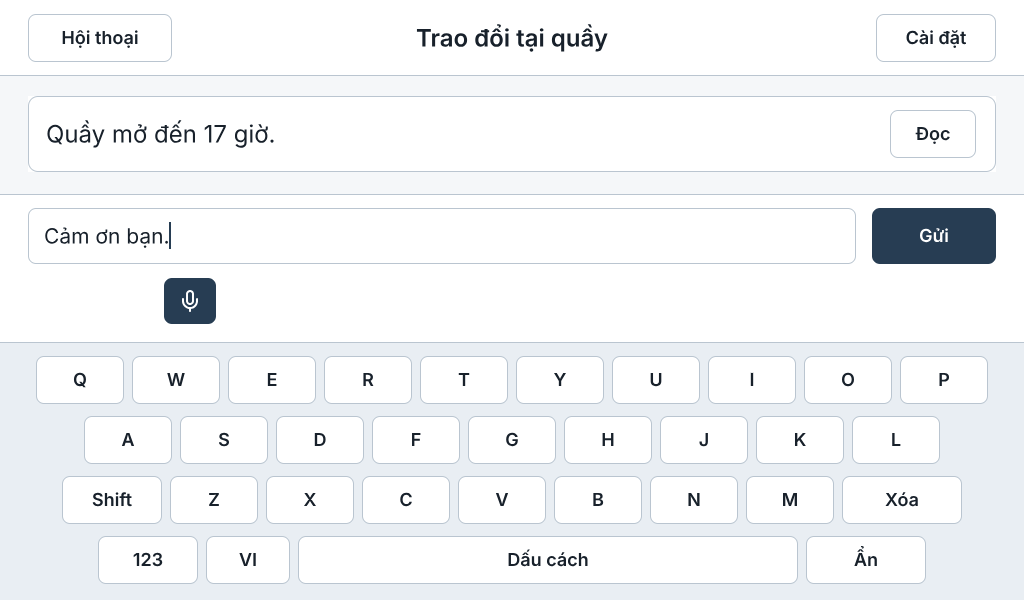
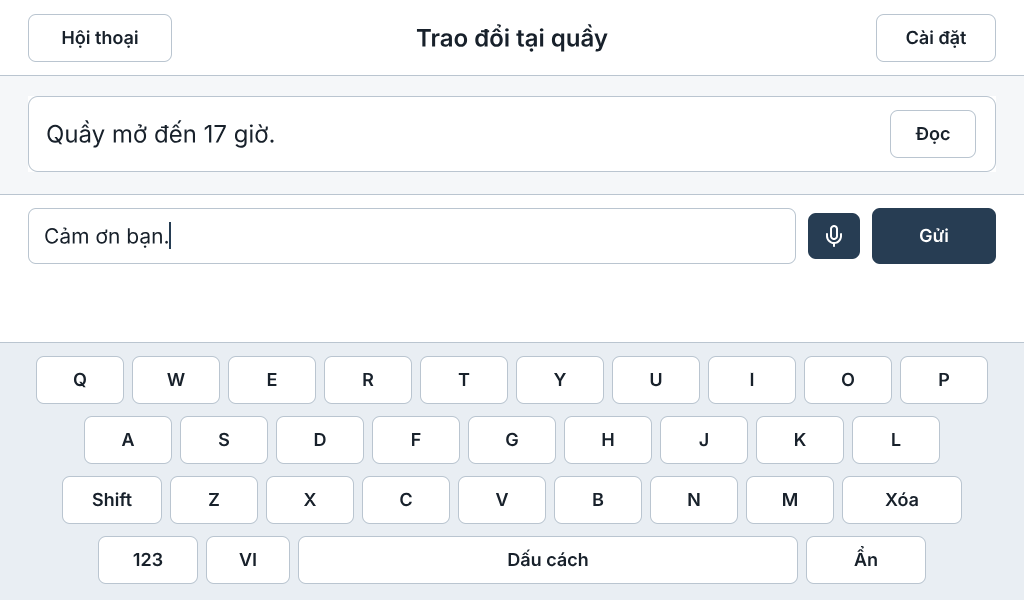
design: place microphone states next to Send

Changed region(s): [[0.7812, 0.33, 0.8438, 0.45], [0.1562, 0.45, 0.2188, 0.54]]

diff --git a/STT_PRODUCT_UI_UX.md b/STT_PRODUCT_UI_UX.md
@@ -53,7 +53,7 @@ Phương án tệp thu tạm của V1 và cách phát triển dần sang V2, V3 
 | :--- | :--- | :--- |
 | Điều hướng | Hội thoại, Lịch sử và Settings. | Cách mở và thu gọn Lịch sử trên màn nhỏ. |
 | Vùng hội thoại | Hiển thị các tin đã gửi. Sau khi gửi thành công, vùng hội thoại tự cuộn đến tin vừa gửi. Tin này dùng cùng kiểu và cỡ chữ với các tin khác trong hội thoại. | Kiểm tra cỡ chữ chung trên màn 7 inch, bố cục từng tin và việc có cần nhãn nguồn nhập. |
-| Vùng soạn | Một vùng soạn chung có mic và **Gửi**. Khi chạm vào vùng soạn, bàn phím mở dưới cùng. Vùng soạn và **Gửi** ở ngay phía trên. Vùng hội thoại dùng phần chiều cao còn lại và có thể cuộn. | Kiểm tra độ dễ nhận ra khi mic sẵn sàng, đang thu và đang chờ nhận dạng. |
+| Vùng soạn | Một vùng soạn chung có nút mic ngay bên trái **Gửi**, cùng hàng với ô nhập. Khi chạm vào vùng soạn, bàn phím mở dưới cùng. Vùng soạn, mic và **Gửi** ở ngay phía trên. Vùng hội thoại dùng phần chiều cao còn lại và có thể cuộn. | Kiểm tra độ dễ nhận ra khi mic sẵn sàng, đang thu và đang chờ nhận dạng. |
 | Settings | Cài đặt Deepgram đã có ở P1. **Nguồn mic trên Pi** và **Xóa lịch sử** đã chốt ở mức thiết kế. | Cách bố trí các mục hiển thị. Đầu ra âm thanh sẽ bàn cùng TTS. |
 
 Khi triển khai bàn phím, cập nhật vùng soạn và trạng thái nút **Gửi** theo từng phím. [Khảo sát vùng soạn và bàn phím ảo](reports/NGHIEN_CUU_VUNG_SOAN_VA_BAN_PHIM_AO.md)
@@ -110,7 +110,7 @@ Các ảnh dùng để đối chiếu bố cục và cách tổ chức hội tho
 
 ## 5. Kịch bản V1 trên bản phác
 
-Các khung **Trao đổi**, **Mở lịch sử** và **Bàn phím mở** dùng nút biểu tượng mic ở vị trí trước đây của nút **Chọn file**. Các khung **Đang thu**, **Chờ nhận dạng** và **Lỗi nhận dạng** minh họa cùng vị trí đó với hình vuông dừng, vòng xoay hoặc biểu tượng mic đã trở lại kèm thông báo lỗi bên cạnh. [Bản phác Pencil 1024 × 600](reports/ui_ux_20261107/assets/wireframe-hoi-thoai-1024x600.pen)
+Các khung **Trao đổi**, **Mở lịch sử** và **Bàn phím mở** đặt nút biểu tượng mic ngay bên trái **Gửi**. Các khung **Đang thu**, **Chờ nhận dạng** và **Lỗi nhận dạng** dùng cùng vị trí đó cho hình vuông dừng, vòng xoay và biểu tượng mic trở lại. Khung lỗi đặt thông báo ngay phía trên nút mic. [Bản phác Pencil 1024 × 600](reports/ui_ux_20261107/assets/wireframe-hoi-thoai-1024x600.pen)
 
 Dùng bản phác làm tham chiếu khi triển khai một lượt nói, đọc và đáp trên cùng màn hình. Người nói chạm mic, dừng thu và đợi chữ vào vùng soạn, rồi đọc lại, sửa nếu cần và bấm **Gửi**. Khi kiểm tra trên thiết bị, đối chiếu vị trí của tin vừa gửi, cỡ chữ chung và cách mở lại hội thoại từ **Lịch sử**.
 
@@ -118,7 +118,7 @@ Khi quay lại TTS, xem các phương án vị trí, phần chữ cần đọc v
 
 ## 6. Tiêu chí duyệt bản phác
 
-- Biểu tượng cho biết lúc nào mic sẵn sàng, đang thu hoặc đang chờ nhận dạng.
+- Nút bên trái **Gửi** hiển thị biểu tượng mic khi sẵn sàng, hình vuông khi đang thu và vòng xoay khi chờ nhận dạng. Nút vẫn nằm cạnh **Gửi** khi bàn phím mở.
 - Khi chưa có lựa chọn đã lưu, Pi có một mic thì thu ngay bằng mic đó và **Settings** hiện tên mic. Pi có nhiều mic thì chọn nguồn trong **Settings** trước khi thu. Nếu rút mic đang dùng rồi chạm nút mic, thông báo mất kết nối xuất hiện cạnh nút.
 - Khi nhận dạng đoạn vừa thu thất bại, vòng xoay kết thúc, biểu tượng mic trở lại và thông báo xuất hiện ở vị trí chung cạnh mic. Chữ đang soạn vẫn còn. Lần chạm mic kế tiếp bắt đầu một lượt thu mới.
 - Phân biệt được chữ đang soạn và tin đã gửi. Chạm vùng soạn mở bàn phím và vẫn nhìn thấy câu đang sửa cùng nút **Gửi**.

diff --git a/STT_SHIFT_HANDOFF.md b/STT_SHIFT_HANDOFF.md
@@ -4,7 +4,7 @@ Updated 2026-11-10. The original target was Thursday, 2026-11-05. A replacement 
 
 ## Next session — use the updated V1 wireframe
 
-The 1024 × 600 Pencil wireframe now replaces the old file button with the microphone control and shows recording, recognition and error states. Use sections 1–3 and 5–6 of [the product UI/UX specification](STT_PRODUCT_UI_UX.md) as the reference for the confirmed flow and checks.
+The 1024 × 600 Pencil wireframe places the microphone control immediately to the left of **Gửi**, including when the keyboard is open. The same control shows recording and recognition states. The error appears just above it. Use sections 1–3 and 5–6 of [the product UI/UX specification](STT_PRODUCT_UI_UX.md) as the reference for the confirmed flow and checks.
 
 PBL6 handles speech recognition, reading text aloud, and Settings. Another project can supply recognized-sign text. Sign recognition and its camera path are separate integration work. **Gửi** and **Đọc to** are separate actions, and the user has deferred the details of TTS. The next chat reviews the design. Software implementation, device tests, benchmarks, and purchases follow a separate user request.
 

diff --git a/START_NEXT_CHAT_STT.md b/START_NEXT_CHAT_STT.md
@@ -4,7 +4,7 @@ Cập nhật 07/11/2026. Dự án giữ tại `C:\Users\LAPTOP T&T\VIOLETTA\Docu
 
 ## 1. Đọc theo thứ tự
 
-**Bản phác V1 đã cập nhật nút mic.** Nút ở vị trí trước đây của **Chọn file**, với các khung minh họa dừng thu, chờ nhận dạng và báo lỗi. Dùng bản phác làm tham chiếu khi triển khai. Quy tắc vị trí và trạng thái mic đã được người dùng chốt.
+**Bản phác V1 đặt nút mic ngay bên trái Gửi.** Các khung dừng thu, chờ nhận dạng và báo lỗi dùng chung vị trí nút. Dùng bản phác làm tham chiếu khi triển khai.
 
 1. `AGENTS.md`: quy tắc kiểm thử, tài liệu và commit.
 2. `STT_BOM.md`: BOM chính, đã thay bằng bố cục highlight người dùng đưa và hiệu chỉnh các nội dung chưa có căn cứ. Không dùng một bản `_HIGHLIGHTED` khác làm nguồn quyết định song song.
